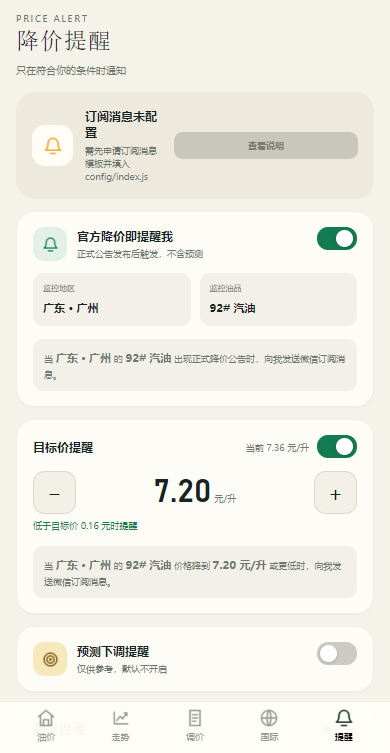
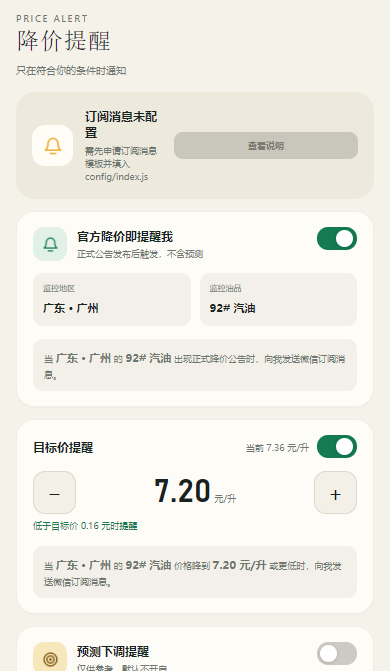
fix: 底部导航改用原生 tabBar，修掉真机上不吸底的问题
用户真机扫码预览后反馈：底部菜单栏没有固定在下方，要滚动到底才看得到。

在模拟器里量过，.tab-bar 的 boundingClientRect 在页面滚动到 0 / 600 / 1200 时
恒为 top 701 / bottom 753，说明 position: fixed 在模拟器是生效的；
真机跑的是用户微信自带的基础库，自定义 tabBar 组件里的 fixed 定位没有生效，
组件被当成页面内容排在了文档流末尾。

- app.json 去掉 "custom": true，list 里配上 iconPath / selectedIconPath
  （用 assets/icons 里现成的两态 PNG）。原生 tabBar 由框架渲染、待在自己的原生层，
  永远吸底，所有设备所有基础库行为一致
- 页面根节点底部留白从 calc(132rpx + env(safe-area-inset-bottom)) 改成 40rpx：
  原生 tabBar 会把 webview 整体上移（模拟器里截图高度从 753 变成 671），
  页面内容不再延伸到它下面，不用再给它留位置
- 页面里去掉 this.getTabBar().setData()，原生 tabBar 自己管选中态
- 删除 custom-tab-bar/ 目录

代价：原生 tabBar 在框架层，App.captureScreenshot 截不到它，
自动截图里看不到底部导航条，真机上是正常的。

diff --git a/pages/alert/alert.js b/pages/alert/alert.js
@@ -42,9 +42,6 @@ Page({
   },
 
   onShow() {
-    var tabBar = typeof this.getTabBar === 'function' ? this.getTabBar() : null;
-    if (tabBar) tabBar.setData({ selected: 4 });
-
     var prefs = store.getPrefs();
     // 首页可能换了油品或地区，这里对齐一次
     if (prefs.fuelId !== this.data.fuelId || prefs.regionCode !== this.data.region.code) {

diff --git a/pages/index/index.js b/pages/index/index.js
@@ -45,9 +45,6 @@ Page({
   },
 
   onShow() {
-    var tabBar = typeof this.getTabBar === 'function' ? this.getTabBar() : null;
-    if (tabBar) tabBar.setData({ selected: 0 });
-
     // 地区可能在别的页面改过，这里对齐一次
     var prefs = store.getPrefs();
     if (prefs.regionCode !== this.data.region.code) {

diff --git a/pages/trend/trend.js b/pages/trend/trend.js
@@ -37,9 +37,6 @@ Page({
   },
 
   onShow() {
-    var tabBar = typeof this.getTabBar === 'function' ? this.getTabBar() : null;
-    if (tabBar) tabBar.setData({ selected: 1 });
-
     var prefs = store.getPrefs();
     var fuelId = prefs.fuelId || '92';
     if (fuelId !== this.data.fuelId) {

diff --git a/pages/global/global.js b/pages/global/global.js
@@ -26,8 +26,6 @@ Page({
   },
 
   onShow() {
-    var tabBar = typeof this.getTabBar === 'function' ? this.getTabBar() : null;
-    if (tabBar) tabBar.setData({ selected: 3 });
   },
 
   load() {

diff --git a/pages/notice/notice.js b/pages/notice/notice.js
@@ -40,8 +40,6 @@ Page({
   },
 
   onShow() {
-    var tabBar = typeof this.getTabBar === 'function' ? this.getTabBar() : null;
-    if (tabBar) tabBar.setData({ selected: 2 });
   },
 
   load() {

diff --git a/AGENTS.md b/AGENTS.md
@@ -30,7 +30,7 @@ node scripts/verify-in-devtools.js
 
 - `pages/` — 五个一级页面，每页四件套 `.js/.json/.wxml/.wxss`
 - `components/` — `trend-chart`（Canvas 2D 阶梯线）、`bottom-sheet`（底部弹层）
-- `custom-tab-bar/` — 自定义 tabBar
+- 底部 tabBar 用**原生 tabBar**（`app.json` 里配 `iconPath`），别用自定义组件 —— 见下方「微信小程序特有坑」
 - `utils/` — `api`（**唯一取数入口**）/ `chart` / `store` / `format` / `cloud` / `subscribe` / `demo-clock`
 - `data/` — 演示数据集、调价时间线、地区价差
 - `styles/` — `tokens.wxss`（设计令牌）+ `components.wxss`（通用类）
@@ -71,6 +71,9 @@ node scripts/verify-in-devtools.js
 | 国际行情日期是 `MM-DD HH:mm:ss` | 时间轴正则要的是 `YYYY-MM-DD`，解析全返回 0 会把曲线叠成一根竖线 |
 | `App.captureScreenshot` 只截 DOM 层 | 不合成 canvas 图层，图表区空白是接口限制不是没画；判定见 `docs/verification.md` |
 | `miniprogram-automator` 0.13 与本机 IDE 不兼容 | IDE `Tool.getInfo` 返回 `{ version }`，automator 读 `SDKVersion` 直接崩；`scripts/verify-in-devtools.js` 自己实现了协议 |
+| 自定义 tabBar 的 `position: fixed` 真机不生效 | 组件被排进文档流末尾，要滚到底才看得到；改用**原生 tabBar**：`app.json` 去掉 `"custom": true`，`list` 里配 `iconPath` / `selectedIconPath` |
+| 主包超 2MB，上传预览包被拒 | `.gitignore` 管不了上传包，要在 `project.config.json` 的 `packOptions.ignore` 里排除 `.tooling` / `docs` / `design` / `scripts` / `cloudfunctions` |
+| GitHub 密钥扫描误报小程序 AppID | AppID 是标识符不是凭据，扫的是 `wx` + 16 位十六进制；真实 AppID 放本地 `project.private.config.json`（不入库），AppSecret 永远不进代码 |
 
 ## 验证要求
 

diff --git a/docs/verification.md b/docs/verification.md
@@ -68,6 +68,29 @@ node scripts/verify-in-devtools.js
 `scripts/lint-wxml.js` 后来补了「标签必须是 WXML 内置标签或已声明的自定义组件」这条规则，
 `<br>` 就是在那一轮被改掉的。
 
+## 真机上 tabBar 没有吸底
+
+用户拿真机扫码预览后反馈：底部菜单栏没有固定在下方，要滚动到底才能看到。
+
+在模拟器里量过：`.tab-bar` 的 `boundingClientRect` 在页面滚动到 0 / 600 / 1200 时
+恒为 `top: 701, bottom: 753`，说明 `position: fixed` 在模拟器是生效的；
+真机跑的是用户微信自带的基础库，自定义 tabBar 组件里的 fixed 定位没有生效，
+组件被当成页面内容的一部分排在了文档流末尾。
+
+**改成原生 tabBar**：`app.json` 里去掉 `"custom": true`，给 `list` 配上
+`iconPath` / `selectedIconPath`（用 `assets/icons/` 里现成的两态 PNG）。
+原生 tabBar 由框架渲染、在自己的原生层里，永远吸底，所有设备所有基础库行为一致。
+
+连带的两处调整：
+
+- 页面根节点的底部留白从 `calc(132rpx + env(safe-area-inset-bottom))` 改成 `40rpx`。
+  原生 tabBar 会把 webview 整体上移（模拟器里截图高度从 753 变成 671），
+  页面内容不再延伸到 tabBar 下面，不用再给它留位置。
+- 页面里去掉 `this.getTabBar().setData()`，原生 tabBar 自己管选中态。
+
+代价：原生 tabBar 是框架层，`App.captureScreenshot` 截不到它，
+自动截图里看不到底部导航条（真机上是正常的）。
+
 ## 已知的环境限制
 
 - **预览二维码需要正式 AppID**。测试号（`touristappid`）能跑模拟器，但上传预览包会被平台拒绝：

diff --git a/README.md b/README.md
@@ -55,7 +55,6 @@ oil_trend/
 ├── components/
 │   ├── trend-chart/    Canvas 2D 价格曲线
 │   └── bottom-sheet/   底部弹层
-├── custom-tab-bar/     自定义 tabBar
 ├── data/               演示数据集、调价时间线、地区价差
 ├── utils/              api / chart / store / format / cloud / subscribe
 ├── styles/             设计令牌与通用组件类
@@ -109,7 +108,7 @@ node scripts/compose-screenshots.py # 把导出的画布贴回页面截图
 node scripts/preview-qr.js         # 上传预览包并生成扫码图
 ```
 
-`lint-wxml.js` 那个检查器抓出过两个真 bug：自定义 tabBar 在 `wx:for` 里写了 `{{path}}`
+`lint-wxml.js` 那个检查器抓出过两个真 bug：tabBar 在 `wx:for` 里写了 `{{path}}`
 （应为 `{{item.path}}`），以及 `<br>` 不是 WXML 内置标签导致整页编译失败。
 验证过程和另外几个坑记在 [docs/verification.md](docs/verification.md)。
 
